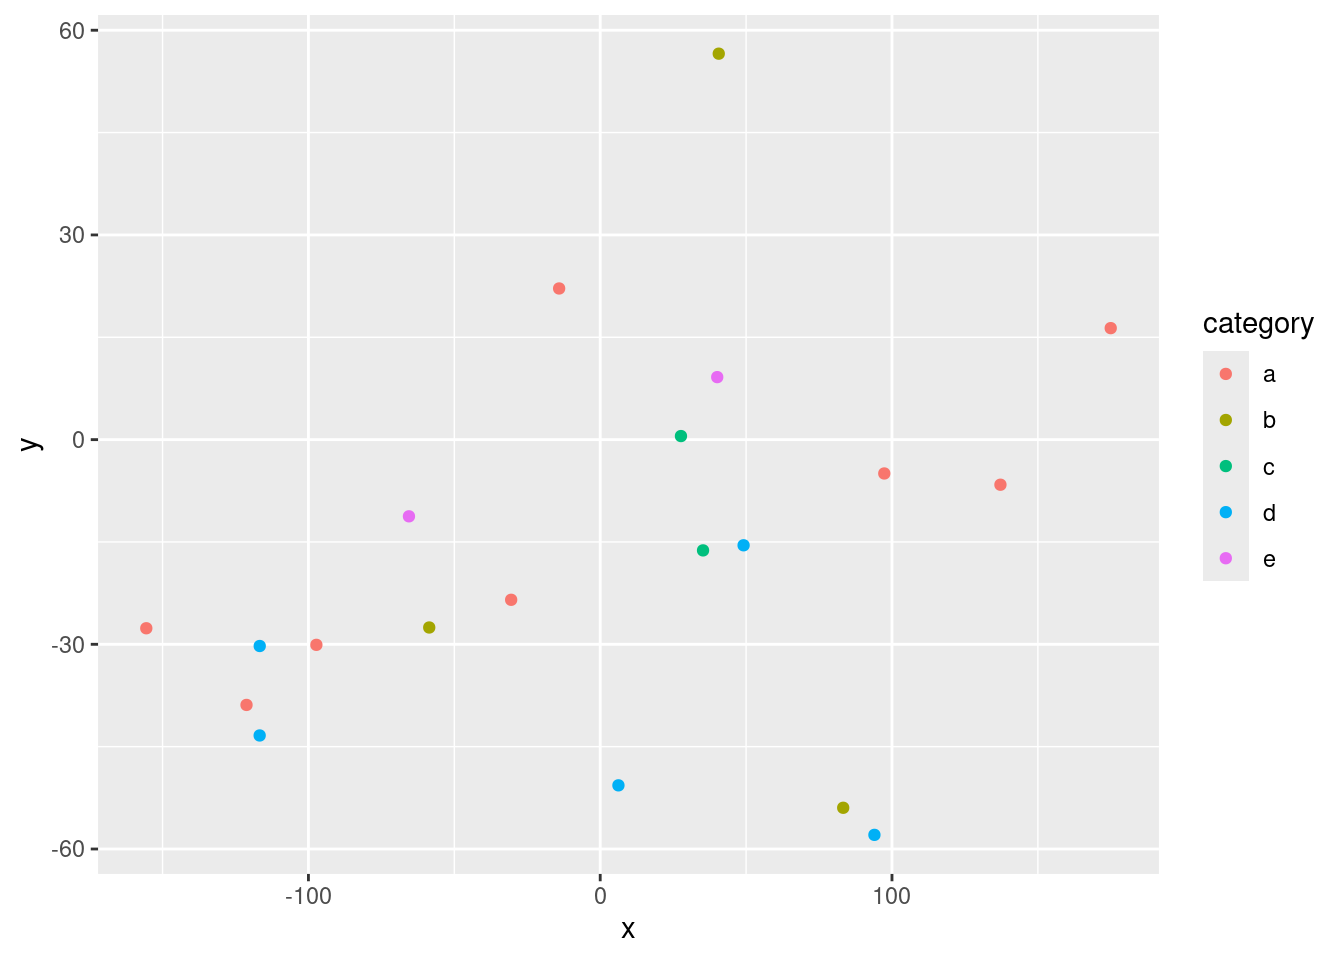
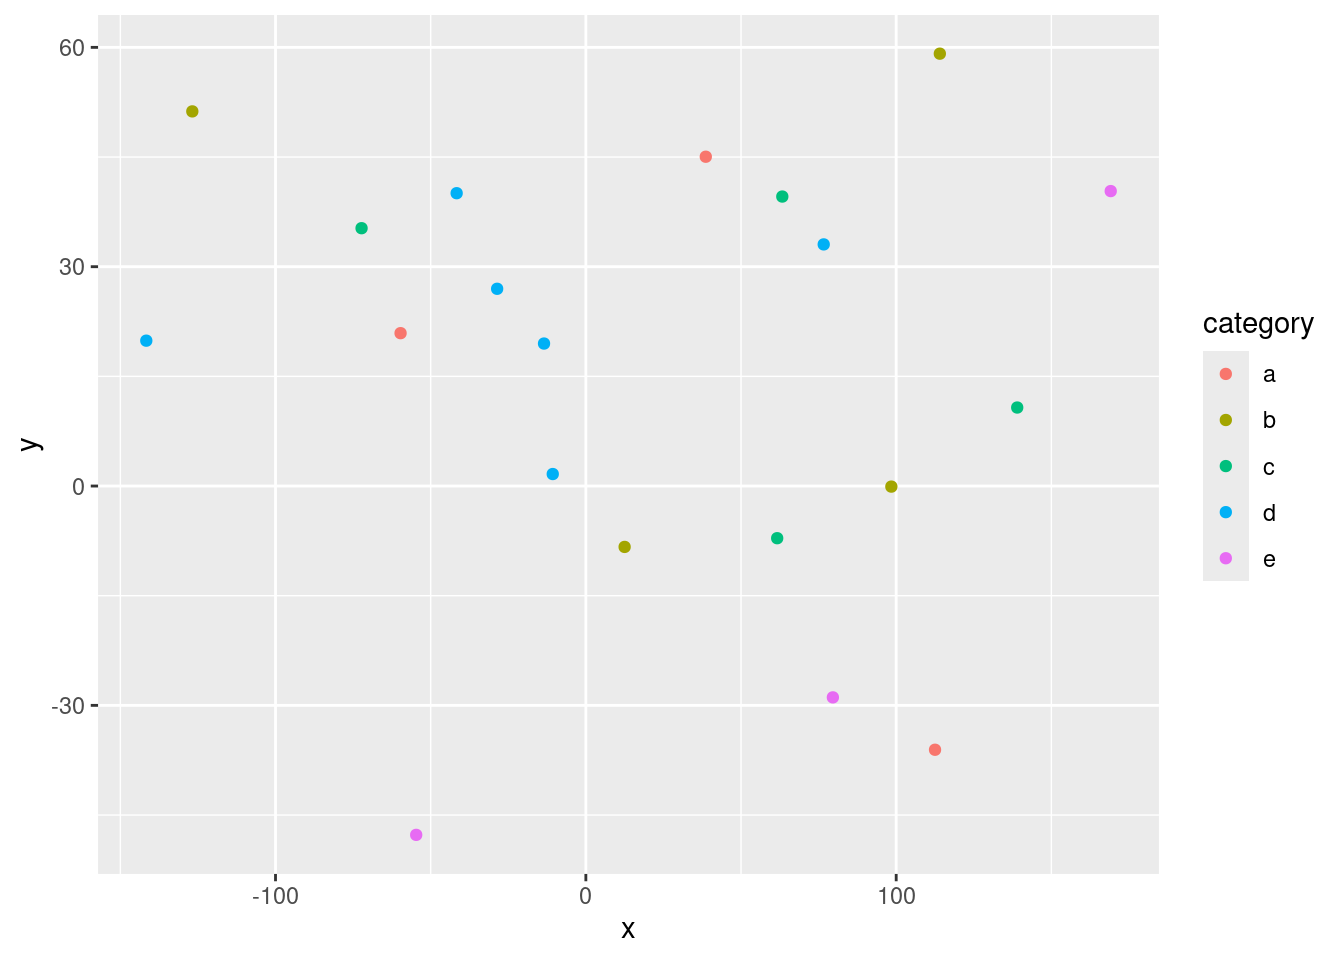
Built site for gh-pages

diff --git a/index.html b/index.html
@@ -266,74 +266,74 @@ pre > code.sourceCode > span > a:first-child::before { text-decoration: underlin
 </thead>
 <tbody>
 <tr class="odd">
-<td style="text-align: center;">-116.69</td>
-<td style="text-align: center;">-30.25</td>
-<td style="text-align: center;">5.59</td>
+<td style="text-align: center;">76.65</td>
+<td style="text-align: center;">33.05</td>
+<td style="text-align: center;">7.52</td>
 <td style="text-align: center;">d</td>
-<td style="text-align: center;">-1.13</td>
+<td style="text-align: center;">0.37</td>
 </tr>
 <tr class="even">
-<td style="text-align: center;">-155.57</td>
-<td style="text-align: center;">-27.65</td>
-<td style="text-align: center;">7.12</td>
-<td style="text-align: center;">a</td>
-<td style="text-align: center;">-1.26</td>
-</tr>
-<tr class="odd">
-<td style="text-align: center;">49.14</td>
-<td style="text-align: center;">-15.49</td>
-<td style="text-align: center;">16.42</td>
-<td style="text-align: center;">d</td>
-<td style="text-align: center;">1.09</td>
-</tr>
-<tr class="even">
-<td style="text-align: center;">-116.72</td>
-<td style="text-align: center;">-43.36</td>
-<td style="text-align: center;">8.97</td>
-<td style="text-align: center;">d</td>
-<td style="text-align: center;">-1.24</td>
-</tr>
-<tr class="odd">
-<td style="text-align: center;">-14.08</td>
-<td style="text-align: center;">22.15</td>
-<td style="text-align: center;">14.52</td>
-<td style="text-align: center;">a</td>
-<td style="text-align: center;">0.33</td>
-</tr>
-<tr class="even">
-<td style="text-align: center;">27.67</td>
-<td style="text-align: center;">0.52</td>
-<td style="text-align: center;">17.91</td>
+<td style="text-align: center;">139.00</td>
+<td style="text-align: center;">10.74</td>
+<td style="text-align: center;">10.89</td>
 <td style="text-align: center;">c</td>
-<td style="text-align: center;">-1.88</td>
+<td style="text-align: center;">1.02</td>
 </tr>
 <tr class="odd">
-<td style="text-align: center;">-58.60</td>
-<td style="text-align: center;">-27.54</td>
-<td style="text-align: center;">16.89</td>
+<td style="text-align: center;">114.06</td>
+<td style="text-align: center;">59.14</td>
+<td style="text-align: center;">16.55</td>
 <td style="text-align: center;">b</td>
-<td style="text-align: center;">-1.47</td>
+<td style="text-align: center;">0.83</td>
 </tr>
 <tr class="even">
-<td style="text-align: center;">83.28</td>
-<td style="text-align: center;">-53.96</td>
-<td style="text-align: center;">14.62</td>
-<td style="text-align: center;">b</td>
-<td style="text-align: center;">-0.62</td>
+<td style="text-align: center;">61.65</td>
+<td style="text-align: center;">-7.13</td>
+<td style="text-align: center;">7.09</td>
+<td style="text-align: center;">c</td>
+<td style="text-align: center;">-0.52</td>
 </tr>
 <tr class="odd">
-<td style="text-align: center;">6.25</td>
-<td style="text-align: center;">-50.67</td>
-<td style="text-align: center;">16.82</td>
+<td style="text-align: center;">-10.67</td>
+<td style="text-align: center;">1.64</td>
+<td style="text-align: center;">14.70</td>
 <td style="text-align: center;">d</td>
-<td style="text-align: center;">0.67</td>
+<td style="text-align: center;">0.03</td>
 </tr>
 <tr class="even">
-<td style="text-align: center;">40.11</td>
-<td style="text-align: center;">9.16</td>
-<td style="text-align: center;">19.93</td>
-<td style="text-align: center;">e</td>
-<td style="text-align: center;">0.73</td>
+<td style="text-align: center;">-41.63</td>
+<td style="text-align: center;">40.05</td>
+<td style="text-align: center;">9.36</td>
+<td style="text-align: center;">d</td>
+<td style="text-align: center;">-0.34</td>
+</tr>
+<tr class="odd">
+<td style="text-align: center;">-141.64</td>
+<td style="text-align: center;">19.88</td>
+<td style="text-align: center;">5.91</td>
+<td style="text-align: center;">d</td>
+<td style="text-align: center;">-1.31</td>
+</tr>
+<tr class="even">
+<td style="text-align: center;">-28.58</td>
+<td style="text-align: center;">26.98</td>
+<td style="text-align: center;">11.31</td>
+<td style="text-align: center;">d</td>
+<td style="text-align: center;">0.68</td>
+</tr>
+<tr class="odd">
+<td style="text-align: center;">98.44</td>
+<td style="text-align: center;">-0.08</td>
+<td style="text-align: center;">16.04</td>
+<td style="text-align: center;">b</td>
+<td style="text-align: center;">-0.42</td>
+</tr>
+<tr class="even">
+<td style="text-align: center;">38.65</td>
+<td style="text-align: center;">45.04</td>
+<td style="text-align: center;">13.44</td>
+<td style="text-align: center;">a</td>
+<td style="text-align: center;">0.20</td>
 </tr>
 </tbody>
 </table>
@@ -355,8 +355,8 @@ pre > code.sourceCode > span > a:first-child::before { text-decoration: underlin
 <span id="cb5-4"><a href="#cb5-4" aria-hidden="true" tabindex="-1"></a>  <span class="fu">addPopups</span>(<span class="sc">~</span>x[<span class="dv">2</span>], <span class="sc">~</span>y[<span class="dv">2</span>], <span class="st">"Random popup"</span>)</span>
 <span id="cb5-5"><a href="#cb5-5" aria-hidden="true" tabindex="-1"></a>m  <span class="co"># a map with the default OSM tile layer</span></span></code><button title="Copy to Clipboard" class="code-copy-button"><i class="bi"></i></button></pre></div>
 <div class="cell-output-display">
-<div class="leaflet html-widget html-fill-item" id="htmlwidget-69eeaa6065f171670996" style="width:100%;height:325px;"></div>
-<script type="application/json" data-for="htmlwidget-69eeaa6065f171670996">{"x":{"options":{"crs":{"crsClass":"L.CRS.EPSG3857","code":null,"proj4def":null,"projectedBounds":null,"options":{}}},"calls":[{"method":"addTiles","args":["https://{s}.tile.openstreetmap.org/{z}/{x}/{y}.png",null,null,{"minZoom":0,"maxZoom":18,"tileSize":256,"subdomains":"abc","errorTileUrl":"","tms":false,"noWrap":false,"zoomOffset":0,"zoomReverse":false,"opacity":1,"zIndex":1,"detectRetina":false,"attribution":"&copy; <a href=\"https://openstreetmap.org/copyright/\">OpenStreetMap<\/a>,  <a href=\"https://opendatacommons.org/licenses/odbl/\">ODbL<\/a>"}]},{"method":"addCircleMarkers","args":[[-30.24940920062363,-27.64914209023118,-15.48813289962709,-43.36204980500042,22.15225308202207,0.5196398589760065,-27.53647668287158,-53.95953197032213,-50.67219416610897,9.159497413784266,-4.961976818740368,-30.0800493825227,-57.9300887323916,16.33946852758527,-23.47665583714843,-38.88515196740627,56.56535639427602,-6.610870119184256,-11.24267175793648,-16.23653121292591],[-116.6932221595198,-155.5723180063069,49.13912049494684,-116.7162402905524,-14.07785355113447,27.6742378436029,-58.59983168542385,83.28423846513033,6.245421934872866,40.10520500130951,97.35963385552168,-97.27855696342885,93.98138179443777,174.9665798060596,-30.52019462920725,-121.2222907505929,40.62751600518823,137.1692729182541,-65.54768107831478,35.24334660731256],[5.593952300259843,7.121801855973899,16.42350712092593,8.968278927495703,14.51807404053397,17.90794523549266,16.88522771815769,14.62411698652431,16.8205668637529,19.927040488692,14.46024419972673,9.077854632632807,5.216777009190992,5.296697003068402,18.84063115576282,16.74399538780563,7.73104568826966,19.48396331164986,7.319983578054234,7.68770013586618],null,null,{"interactive":true,"className":"","stroke":true,"color":["d","a","d","d","a","c","b","b","d","e","a","a","d","a","a","a","b","a","e","c"],"weight":5,"opacity":0.5,"fill":true,"fillColor":["d","a","d","d","a","c","b","b","d","e","a","a","d","a","a","a","b","a","e","c"],"fillOpacity":0.2},null,null,null,null,null,{"interactive":false,"permanent":false,"direction":"auto","opacity":1,"offset":[0,0],"textsize":"10px","textOnly":false,"className":"","sticky":true},null]},{"method":"addPopups","args":[-27.64914209023118,-155.5723180063069,"Random popup",null,null,{"maxWidth":300,"minWidth":50,"autoPan":true,"keepInView":false,"closeButton":true,"className":""}]}],"limits":{"lat":[-57.9300887323916,56.56535639427602],"lng":[-155.5723180063069,174.9665798060596]}},"evals":[],"jsHooks":[]}</script>
+<div class="leaflet html-widget html-fill-item" id="htmlwidget-7ac260417fecccc9b3ea" style="width:100%;height:325px;"></div>
+<script type="application/json" data-for="htmlwidget-7ac260417fecccc9b3ea">{"x":{"options":{"crs":{"crsClass":"L.CRS.EPSG3857","code":null,"proj4def":null,"projectedBounds":null,"options":{}}},"calls":[{"method":"addTiles","args":["https://{s}.tile.openstreetmap.org/{z}/{x}/{y}.png",null,null,{"minZoom":0,"maxZoom":18,"tileSize":256,"subdomains":"abc","errorTileUrl":"","tms":false,"noWrap":false,"zoomOffset":0,"zoomReverse":false,"opacity":1,"zIndex":1,"detectRetina":false,"attribution":"&copy; <a href=\"https://openstreetmap.org/copyright/\">OpenStreetMap<\/a>,  <a href=\"https://opendatacommons.org/licenses/odbl/\">ODbL<\/a>"}]},{"method":"addCircleMarkers","args":[[33.049569837749,10.73854540474713,59.13744220510125,-7.134430781006813,1.640892047435045,40.05295392125845,19.88313624635339,26.97907892055809,-0.07835101336240768,45.04187825135887,-28.90603655017912,19.48932683095336,35.26611244305968,40.34184987656772,-47.71195457316935,-36.07014139182866,39.59435912780464,51.24285193160176,20.90971914120018,-8.327298341318965],[76.64634061977267,138.9978387393057,114.0621007606387,61.65345221757889,-10.66653965972364,-41.63096794858575,-141.6386669687927,-28.58433483168483,98.44239042140543,38.64794458262622,79.5962718129158,-13.47968657501042,-72.2728306800127,169.1273239441216,-54.6664699818939,112.5132869929075,63.30203150399029,-126.8085081875324,-59.70340554602444,12.49407241120934],[7.524149214150384,10.89318338898011,16.54615822480991,7.09215683513321,14.69957394176163,9.358306878712028,5.907976258313283,11.3069212262053,16.03755777934566,13.43647008761764,7.238748323870823,9.402398623060435,15.2720804058481,17.57750230608508,18.83665679604746,6.073109669378027,13.07286169263534,10.43403738760389,8.623669589869678,13.12115662265569],null,null,{"interactive":true,"className":"","stroke":true,"color":["d","c","b","c","d","d","d","d","b","a","e","d","c","e","e","a","c","b","a","b"],"weight":5,"opacity":0.5,"fill":true,"fillColor":["d","c","b","c","d","d","d","d","b","a","e","d","c","e","e","a","c","b","a","b"],"fillOpacity":0.2},null,null,null,null,null,{"interactive":false,"permanent":false,"direction":"auto","opacity":1,"offset":[0,0],"textsize":"10px","textOnly":false,"className":"","sticky":true},null]},{"method":"addPopups","args":[10.73854540474713,138.9978387393057,"Random popup",null,null,{"maxWidth":300,"minWidth":50,"autoPan":true,"keepInView":false,"closeButton":true,"className":""}]}],"limits":{"lat":[-47.71195457316935,59.13744220510125],"lng":[-141.6386669687927,169.1273239441216]}},"evals":[],"jsHooks":[]}</script>
 <p>Map of completely random data</p>
 </div>
 </div>
@@ -379,8 +379,8 @@ pre > code.sourceCode > span > a:first-child::before { text-decoration: underlin
 <span id="cb7-2"><a href="#cb7-2" aria-hidden="true" tabindex="-1"></a><span class="fu">dygraph</span>(nhtemp, <span class="at">main =</span> <span class="st">"New Haven Temperatures"</span>) <span class="sc">|&gt;</span> </span>
 <span id="cb7-3"><a href="#cb7-3" aria-hidden="true" tabindex="-1"></a>  <span class="fu">dyRangeSelector</span>(<span class="at">dateWindow =</span> <span class="fu">c</span>(<span class="st">"1920-01-01"</span>, <span class="st">"1960-01-01"</span>)) </span></code><button title="Copy to Clipboard" class="code-copy-button"><i class="bi"></i></button></pre></div>
 <div class="cell-output-display">
-<div class="dygraphs html-widget html-fill-item" id="htmlwidget-ace494f9f8385aa628d8" style="width:100%;height:464px;"></div>
-<script type="application/json" data-for="htmlwidget-ace494f9f8385aa628d8">{"x":{"attrs":{"title":"New Haven Temperatures","labels":["year","V1"],"legend":"auto","retainDateWindow":false,"axes":{"x":{"pixelsPerLabel":60}},"showRangeSelector":true,"dateWindow":["1920-01-01T00:00:00.000Z","1960-01-01T00:00:00.000Z"],"rangeSelectorHeight":40,"rangeSelectorPlotFillColor":" #A7B1C4","rangeSelectorPlotStrokeColor":"#808FAB","interactionModel":"Dygraph.Interaction.defaultModel"},"scale":"yearly","annotations":[],"shadings":[],"events":[],"format":"date","data":[["1912-01-01T00:00:00.000Z","1913-01-01T00:00:00.000Z","1914-01-01T00:00:00.000Z","1915-01-01T00:00:00.000Z","1916-01-01T00:00:00.000Z","1917-01-01T00:00:00.000Z","1918-01-01T00:00:00.000Z","1919-01-01T00:00:00.000Z","1920-01-01T00:00:00.000Z","1921-01-01T00:00:00.000Z","1922-01-01T00:00:00.000Z","1923-01-01T00:00:00.000Z","1924-01-01T00:00:00.000Z","1925-01-01T00:00:00.000Z","1926-01-01T00:00:00.000Z","1927-01-01T00:00:00.000Z","1928-01-01T00:00:00.000Z","1929-01-01T00:00:00.000Z","1930-01-01T00:00:00.000Z","1931-01-01T00:00:00.000Z","1932-01-01T00:00:00.000Z","1933-01-01T00:00:00.000Z","1934-01-01T00:00:00.000Z","1935-01-01T00:00:00.000Z","1936-01-01T00:00:00.000Z","1937-01-01T00:00:00.000Z","1938-01-01T00:00:00.000Z","1939-01-01T00:00:00.000Z","1940-01-01T00:00:00.000Z","1941-01-01T00:00:00.000Z","1942-01-01T00:00:00.000Z","1943-01-01T00:00:00.000Z","1944-01-01T00:00:00.000Z","1945-01-01T00:00:00.000Z","1946-01-01T00:00:00.000Z","1947-01-01T00:00:00.000Z","1948-01-01T00:00:00.000Z","1949-01-01T00:00:00.000Z","1950-01-01T00:00:00.000Z","1951-01-01T00:00:00.000Z","1952-01-01T00:00:00.000Z","1953-01-01T00:00:00.000Z","1954-01-01T00:00:00.000Z","1955-01-01T00:00:00.000Z","1956-01-01T00:00:00.000Z","1957-01-01T00:00:00.000Z","1958-01-01T00:00:00.000Z","1959-01-01T00:00:00.000Z","1960-01-01T00:00:00.000Z","1961-01-01T00:00:00.000Z","1962-01-01T00:00:00.000Z","1963-01-01T00:00:00.000Z","1964-01-01T00:00:00.000Z","1965-01-01T00:00:00.000Z","1966-01-01T00:00:00.000Z","1967-01-01T00:00:00.000Z","1968-01-01T00:00:00.000Z","1969-01-01T00:00:00.000Z","1970-01-01T00:00:00.000Z","1971-01-01T00:00:00.000Z"],[49.9,52.3,49.4,51.1,49.4,47.9,49.8,50.9,49.3,51.9,50.8,49.6,49.3,50.6,48.4,50.7,50.9,50.6,51.5,52.8,51.8,51.1,49.8,50.2,50.4,51.6,51.8,50.9,48.8,51.7,51,50.6,51.7,51.5,52.1,51.3,51,54,51.4,52.7,53.1,54.6,52,52,50.9,52.6,50.2,52.6,51.6,51.9,50.5,50.9,51.7,51.4,51.7,50.8,51.9,51.8,51.9,53]]},"evals":["attrs.interactionModel"],"jsHooks":[]}</script>
+<div class="dygraphs html-widget html-fill-item" id="htmlwidget-eda15ab03ff8b1005b1f" style="width:100%;height:464px;"></div>
+<script type="application/json" data-for="htmlwidget-eda15ab03ff8b1005b1f">{"x":{"attrs":{"title":"New Haven Temperatures","labels":["year","V1"],"legend":"auto","retainDateWindow":false,"axes":{"x":{"pixelsPerLabel":60}},"showRangeSelector":true,"dateWindow":["1920-01-01T00:00:00.000Z","1960-01-01T00:00:00.000Z"],"rangeSelectorHeight":40,"rangeSelectorPlotFillColor":" #A7B1C4","rangeSelectorPlotStrokeColor":"#808FAB","interactionModel":"Dygraph.Interaction.defaultModel"},"scale":"yearly","annotations":[],"shadings":[],"events":[],"format":"date","data":[["1912-01-01T00:00:00.000Z","1913-01-01T00:00:00.000Z","1914-01-01T00:00:00.000Z","1915-01-01T00:00:00.000Z","1916-01-01T00:00:00.000Z","1917-01-01T00:00:00.000Z","1918-01-01T00:00:00.000Z","1919-01-01T00:00:00.000Z","1920-01-01T00:00:00.000Z","1921-01-01T00:00:00.000Z","1922-01-01T00:00:00.000Z","1923-01-01T00:00:00.000Z","1924-01-01T00:00:00.000Z","1925-01-01T00:00:00.000Z","1926-01-01T00:00:00.000Z","1927-01-01T00:00:00.000Z","1928-01-01T00:00:00.000Z","1929-01-01T00:00:00.000Z","1930-01-01T00:00:00.000Z","1931-01-01T00:00:00.000Z","1932-01-01T00:00:00.000Z","1933-01-01T00:00:00.000Z","1934-01-01T00:00:00.000Z","1935-01-01T00:00:00.000Z","1936-01-01T00:00:00.000Z","1937-01-01T00:00:00.000Z","1938-01-01T00:00:00.000Z","1939-01-01T00:00:00.000Z","1940-01-01T00:00:00.000Z","1941-01-01T00:00:00.000Z","1942-01-01T00:00:00.000Z","1943-01-01T00:00:00.000Z","1944-01-01T00:00:00.000Z","1945-01-01T00:00:00.000Z","1946-01-01T00:00:00.000Z","1947-01-01T00:00:00.000Z","1948-01-01T00:00:00.000Z","1949-01-01T00:00:00.000Z","1950-01-01T00:00:00.000Z","1951-01-01T00:00:00.000Z","1952-01-01T00:00:00.000Z","1953-01-01T00:00:00.000Z","1954-01-01T00:00:00.000Z","1955-01-01T00:00:00.000Z","1956-01-01T00:00:00.000Z","1957-01-01T00:00:00.000Z","1958-01-01T00:00:00.000Z","1959-01-01T00:00:00.000Z","1960-01-01T00:00:00.000Z","1961-01-01T00:00:00.000Z","1962-01-01T00:00:00.000Z","1963-01-01T00:00:00.000Z","1964-01-01T00:00:00.000Z","1965-01-01T00:00:00.000Z","1966-01-01T00:00:00.000Z","1967-01-01T00:00:00.000Z","1968-01-01T00:00:00.000Z","1969-01-01T00:00:00.000Z","1970-01-01T00:00:00.000Z","1971-01-01T00:00:00.000Z"],[49.9,52.3,49.4,51.1,49.4,47.9,49.8,50.9,49.3,51.9,50.8,49.6,49.3,50.6,48.4,50.7,50.9,50.6,51.5,52.8,51.8,51.1,49.8,50.2,50.4,51.6,51.8,50.9,48.8,51.7,51,50.6,51.7,51.5,52.1,51.3,51,54,51.4,52.7,53.1,54.6,52,52,50.9,52.6,50.2,52.6,51.6,51.9,50.5,50.9,51.7,51.4,51.7,50.8,51.9,51.8,51.9,53]]},"evals":["attrs.interactionModel"],"jsHooks":[]}</script>
 </div>
 </div>
 </section>
